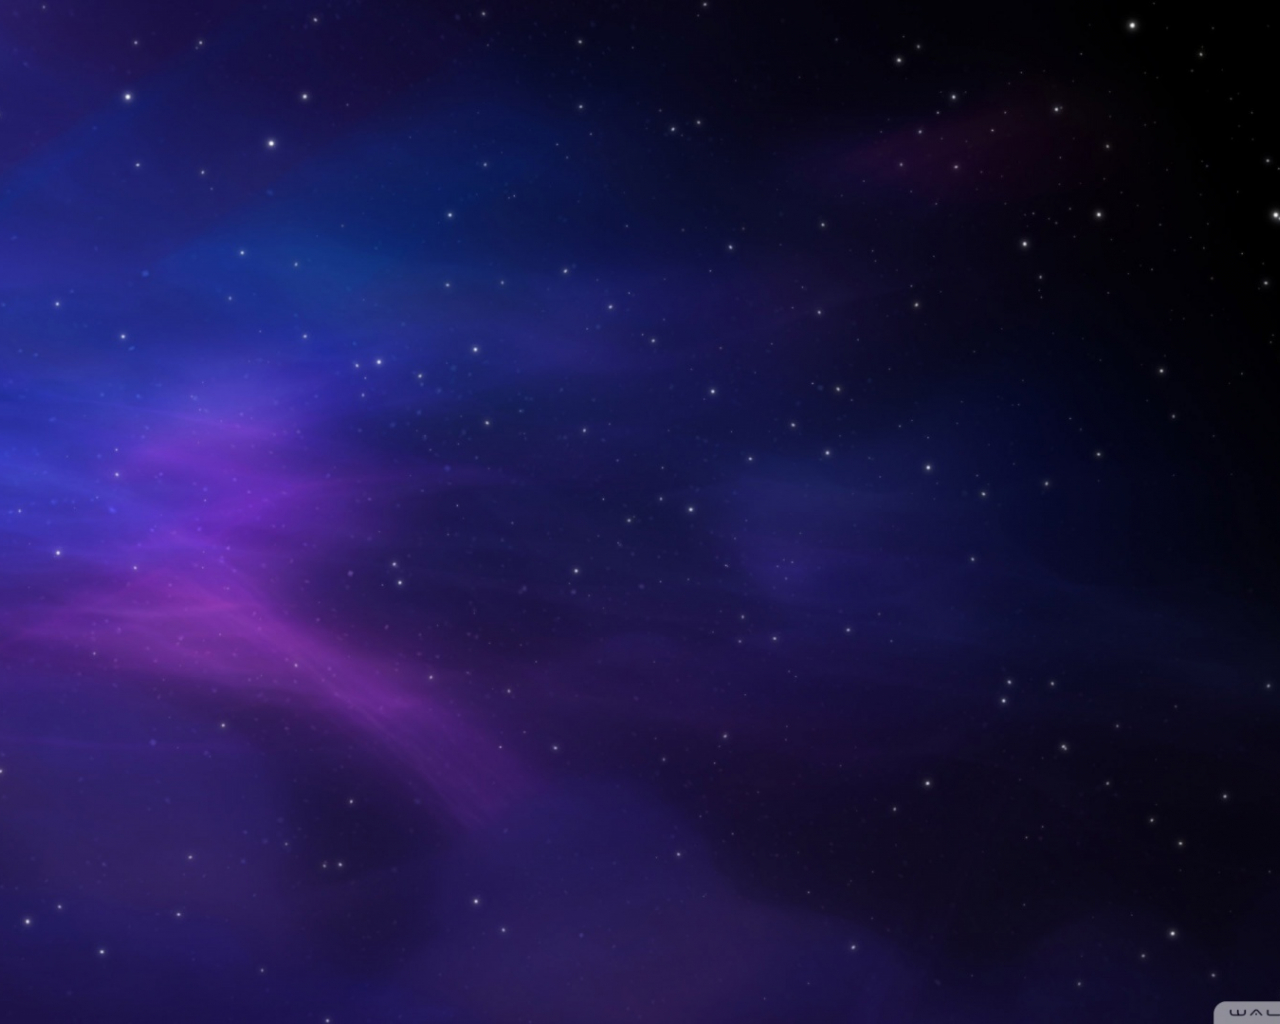
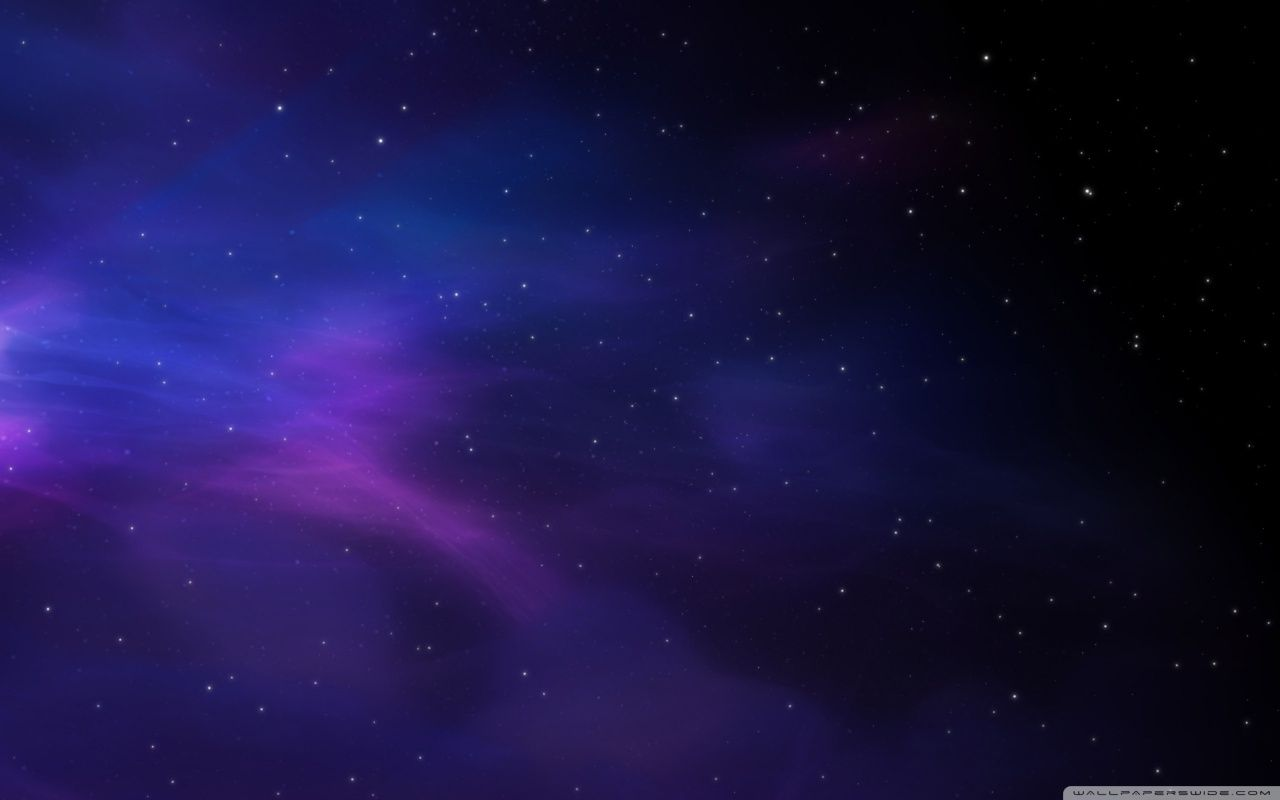
Changed bg for pages an more sources
I changed the background to pages because it was unable to be used due to copyright issues so I found a similar background.

diff --git a/docs/learn_styles.css b/docs/learn_styles.css
@@ -9,7 +9,7 @@
 .container{
   box-sizing: border-box;
   display: block;
-    background-image: url('images/learn_bg.jpg');
+    background-image: url('images/gradient.jpg');
     height: 120vh;
     margin-left:  100px;
     margin-right:  100px;

diff --git a/assets.md b/assets.md
@@ -5,6 +5,8 @@
 Asset | Source
 -- | --
 Zodiac Icons | Source from CC: Free to use under Creative Commons NonCommercial license: "Zodiac Signs" by NuitApp https://giphy.com/Nuitapp/
+Page Background | Source from CC: Free to use under Creative Commons NonCommercial license: "Blue and Purple Stars" https://wallpaperaccess.com/purple-and-blue-stars
+
 Hanged Man Tarot Card | Free to use under Public Domain: "Hanged Man" by Pamela Coleman Smith https://commons.wikimedia.org/wiki/File:RWS_Tarot_12_Hanged_Man.jpg
 Death Tarot Card| Fair Use: https://tarotluv.com/tarot-card-meanings/major-arcana/death/
 The Hermit Tarot Card | Free to use under Public Domain: "The Hermit" by Pamela Coleman Smith https://commons.wikimedia.org/wiki/File:RWS_Tarot_09_Hermit.jpg
@@ -16,14 +18,10 @@ The Devil Tarot Card | Free to use under Public Domain: "The Devil" by Pamela Co
 The Sun Tarot Card | Free to use under Public Domain: "The Sun" by Pamela Coleman Smith https://commons.wikimedia.org/wiki/File:RWS_Tarot_19_Sun.jpg
 The Pope Tarot Card | Free to use under Public Domain: "The Hierophant" by Pamela Coleman Smith https://commons.wikimedia.org/wiki/File:RWS_Tarot_05_Hierophant.jpg
 The World Tarot Card | Free to use under Public Domain: "The World" by Pamela Coleman Smith https://commons.wikimedia.org/wiki/File:RWS_Tarot_21_World.jpg
-
 Playfair Display SC Font | Free to use under Open Font License: "Playfair Display SC Font" by Claus Eggers Sørensen https://fonts.google.com/specimen/Playfair+Display+SC?preview.text=Star%20Power&preview.text_type=custom#about
+Julius Sans One Font | Free to use under Open Font License: "Julius Sans One Font" by Luciano Vergara https://fonts.google.com/specimen/Julius+Sans+One#about
 
 
-
-
-
-Font | Source from CC: Free commercial font from FontSpace:
 
 
 <!--EndFragment-->
